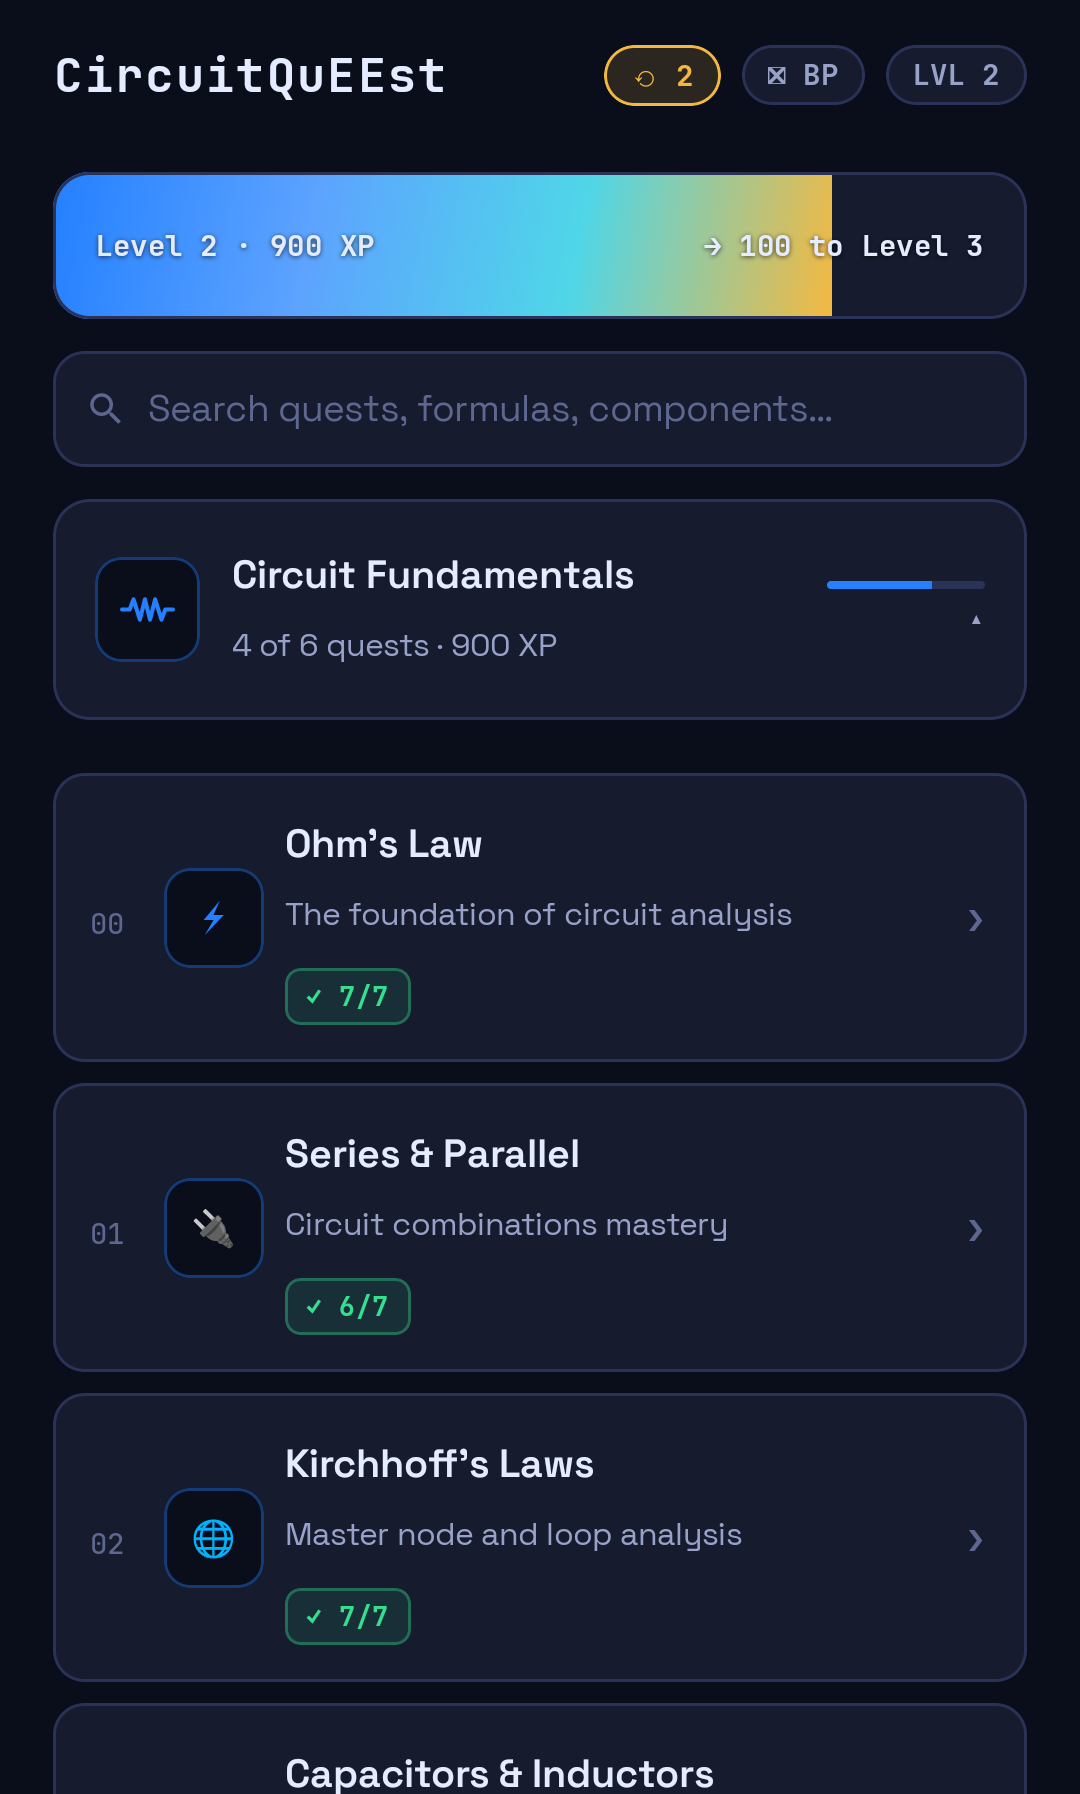
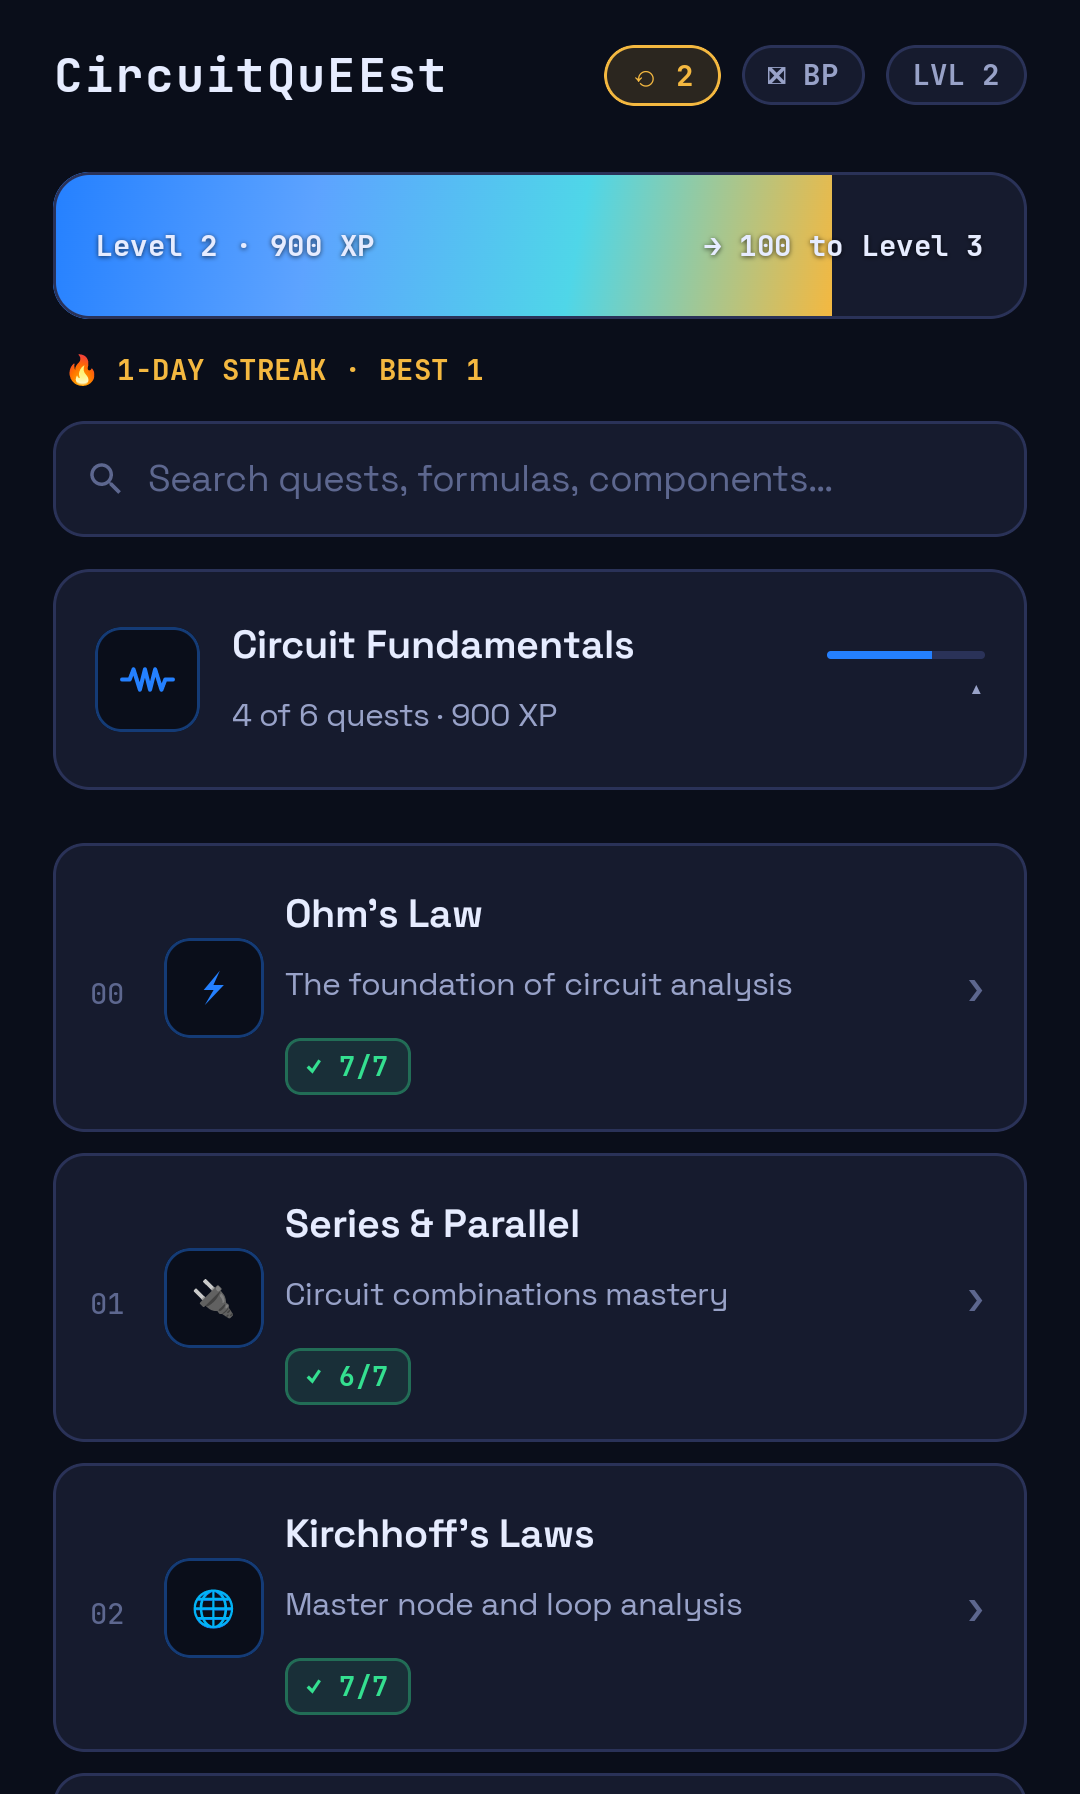
release: v2.6 — study streaks
versionCode 27 / 2.6, README badge, release notes, Play screenshots
regenerated (quest map shows the streak line), test counts in
TESTING.md, and DEPLOYMENT.md's staging step now re-signs before
installing over CQ Staging.

diff --git a/docs/TESTING.md b/docs/TESTING.md
@@ -2,19 +2,19 @@
 
 ## Overview
 
-CircuitQuEEst has 212 JVM unit tests and 53 instrumented tests (plus 6 store-screenshot tests that run separately). This guide explains the testing strategy, how to run tests, and how to add new ones.
+CircuitQuEEst has 223 JVM unit tests and 55 instrumented tests (plus 6 store-screenshot tests that run separately). This guide explains the testing strategy, how to run tests, and how to add new ones.
 
 ## Test Pyramid
 
 ```
         ╔═══════════════════════════════════╗
-        ║   UI Tests (24 tests)             ║
+        ║   UI Tests (25 tests)             ║
         ║   Compose Screen Components       ║
         ╠═══════════════════════════════════╣
-        ║   Database Tests (29 tests)       ║
+        ║   Database Tests (30 tests)       ║
         ║   Room DAOs, Migrations, Import   ║
         ╠═══════════════════════════════════╣
-        ║   Unit Tests (212 tests)          ║
+        ║   Unit Tests (223 tests)          ║
         ║   Logic, Repository, Edge         ║
         ║   Cases, Content Modules          ║
         ╚═══════════════════════════════════╝
@@ -134,14 +134,15 @@ Coverage isn't measured (no JaCoCo/Kover set up), so this lists test counts only
 | Content modules + TopicsService | 84 | - |
 | Scoring + edge cases | 35 | - |
 | ViewModels | 25 | - |
-| Room DAOs, migrations, legacy import | 22 | 29 |
-| ProgressRepository | 18 | - |
+| Room DAOs, migrations, legacy import | 22 | 30 |
+| ProgressRepository | 21 | - |
+| Streaks | 8 | - |
 | Navigation | 13 | - |
 | Quiz flow (integration) | 6 | - |
 | UI helpers (search, numeric parsing, fonts) | 9 | - |
 | Compose components | - | 9 |
-| Screens (Home, Quiz, Result) | - | 15 |
-| **Total** | **212** | **53** |
+| Screens (Home, Quiz, Result) | - | 16 |
+| **Total** | **223** | **55** |
 
 `StoreScreenshots` (6 tests) only runs in `screenshots.yml`; `build.yml` excludes it.
 

diff --git a/RELEASE_NOTES.md b/RELEASE_NOTES.md
@@ -1,3 +1,24 @@
+# CircuitQuEEst v2.6 — Study Streaks
+
+**Release Date:** October 23, 2026
+**APK size:** ~2 MB (R8-shrunk release build)
+**Requires:** Android 8.0+
+
+> Installs as an update over any earlier version and keeps your progress.
+
+### New
+- **Study streaks.** The quest map now shows how many days in a row you've studied, and your best run, under the XP bar. A day counts once you finish a lesson, submit a quiz (pass or fail) or answer a review question. The line turns gold once today counts; until then it reminds you to study to keep the streak going. A streak only breaks after a whole day with no study. Streaks are just a count: they don't change the XP you earn.
+- **Your past study counts too.** On first launch, v2.6 works out the days you studied from your saved quiz history and recent activity, so your best streak doesn't start from zero.
+
+### Platform
+- Database version 3 (adds study days) via a tested Room auto-migration — existing progress is kept.
+
+### Engineering
+- Fixed a flaky UI test that could close its test database while a save was still running.
+- Docs: CircuitQuEEst spelled consistently; the testing guide now lists the real test counts (223 unit, 55 instrumented) instead of old, inflated claims.
+
+---
+
 # CircuitQuEEst v2.5.1 — Progress Recovery
 
 **Release Date:** October 20, 2026

diff --git a/docs/DEPLOYMENT.md b/docs/DEPLOYMENT.md
@@ -6,7 +6,7 @@ Before releasing to production:
 
 - [ ] All tests passing: `./gradlew test` (plus `connectedAndroidTest` on an emulator or spare device — it uninstalls the app afterwards)
 - [ ] Code quality checks passing: `./gradlew detekt`
-- [ ] Smoke-tested the shrunk build on a device: `./gradlew assembleStaging`, then `adb install -r app/build/outputs/apk/staging/app-staging.apk`. It installs as "CQ Staging" beside the real app, so the real app's progress is untouched. Launch it and play one lesson + quiz.
+- [ ] Smoke-tested the shrunk build on a device: `./gradlew assembleStaging`, then re-sign it and install it as an update over "CQ Staging" (see [Testing an update before publishing](#testing-an-update-before-publishing); a staging APK installed unsigned-over-signed fails with `INSTALL_FAILED_UPDATE_INCOMPATIBLE`). CQ Staging sits beside the real app, so the real app's progress is untouched. Launch it and play one lesson + quiz.
 - [ ] Version updated in build.gradle.kts
 - [ ] CHANGELOG updated with new features
 - [ ] Release notes prepared

diff --git a/README.md b/README.md
@@ -5,7 +5,7 @@
 **Master Electrical Engineering through gamified quests**
 
 [![Build](https://github.com/HighviewOne/CircuitQueest/actions/workflows/build.yml/badge.svg)](https://github.com/HighviewOne/CircuitQueest/actions/workflows/build.yml)
-[![Version](https://img.shields.io/badge/version-2.5.1-2480FF?labelColor=0A0E1A)](https://github.com/HighviewOne/CircuitQueest/releases)
+[![Version](https://img.shields.io/badge/version-2.6-2480FF?labelColor=0A0E1A)](https://github.com/HighviewOne/CircuitQueest/releases)
 [![Android](https://img.shields.io/badge/Android-8.0%2B-34E090?logo=android&logoColor=white&labelColor=0A0E1A)](https://developer.android.com)
 [![Kotlin](https://img.shields.io/badge/Kotlin-2.0.21-7F52FF?logo=kotlin&logoColor=white&labelColor=0A0E1A)](https://kotlinlang.org)
 [![Compose](https://img.shields.io/badge/Jetpack_Compose-2024.12-4285F4?logo=android&logoColor=white&labelColor=0A0E1A)](https://developer.android.com/jetpack/compose)
